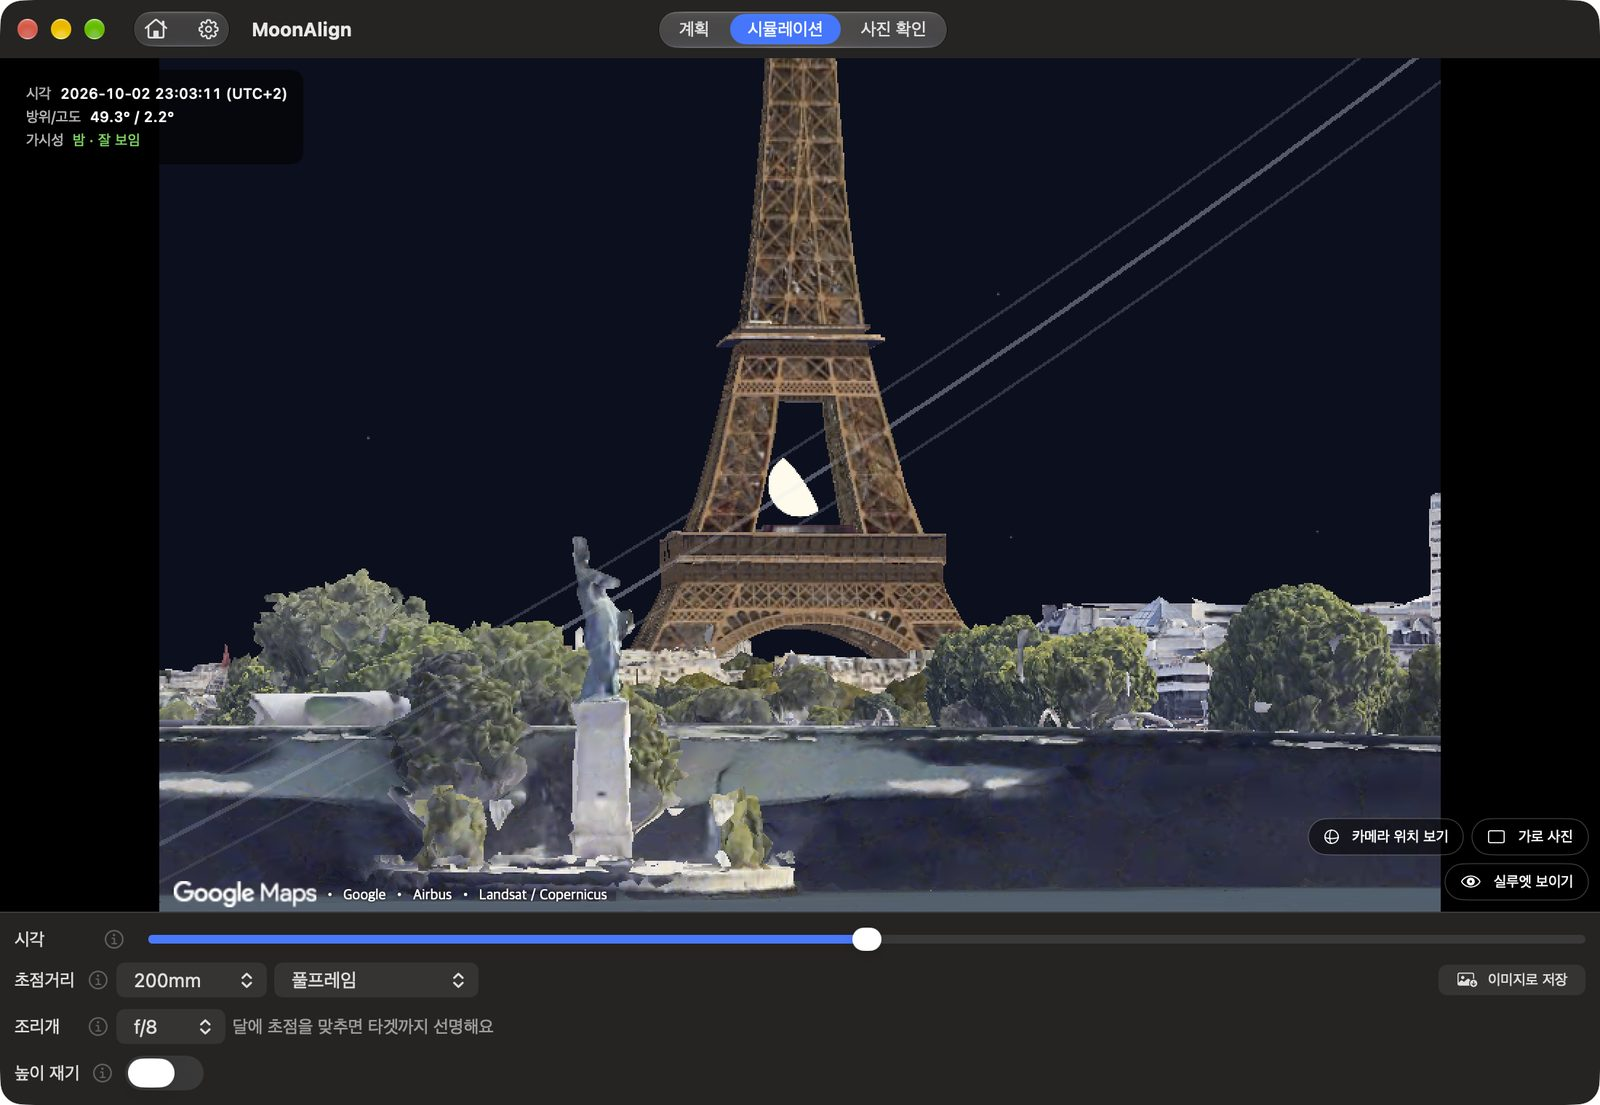
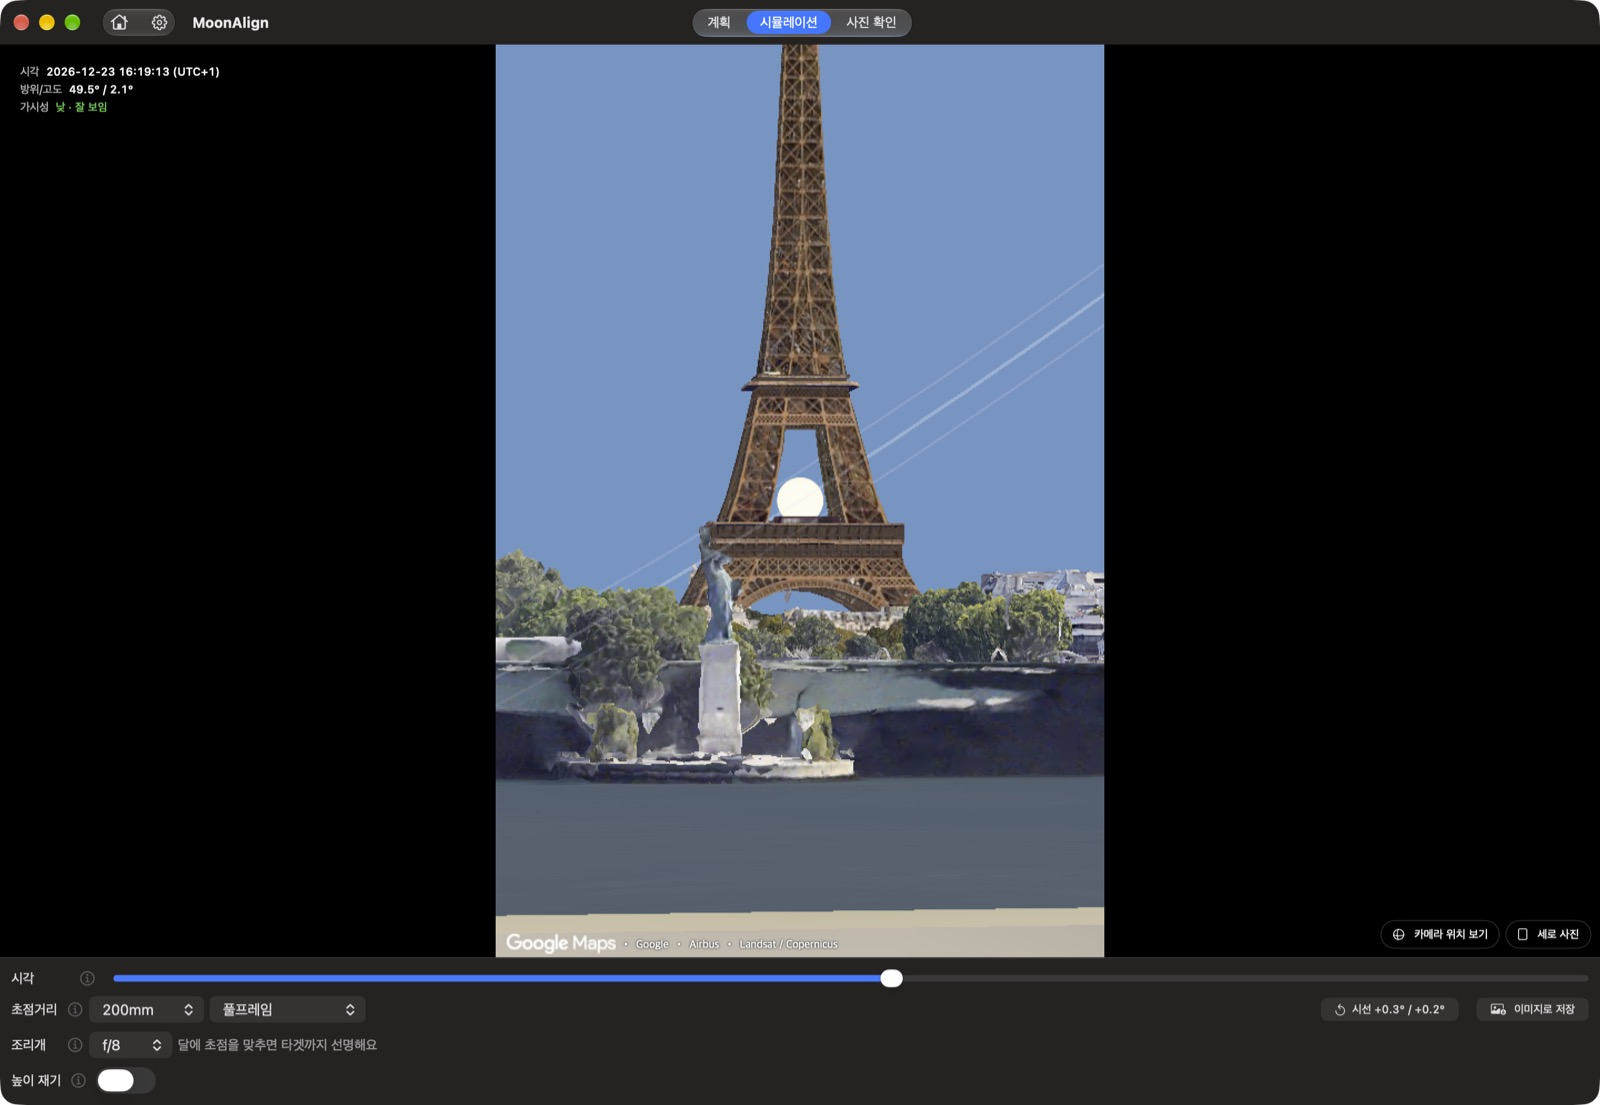
랜딩 생성물 갱신 — MoonAlign 20156f1

diff --git a/ja/guide/index.html b/ja/guide/index.html
@@ -289,7 +289,7 @@
 
 <section>
 <h2 id="sim">シミュレーション — 3Dで事前確認</h2>
-<figure class="shot"><img src="/img/guide/sim-mac-ja.jpg" alt="Macのシミュレーション" loading="lazy"><figcaption>Macのシミュレーション — エッフェル塔の脚の間に重なる月(200mm、フルサイズ)。下で時刻・焦点距離・絞りを変えます。</figcaption></figure>
+<figure class="shot"><img src="/img/guide/sim-mac-ja.jpg" alt="Macのシミュレーション" loading="lazy"><figcaption>Macのシミュレーション — エッフェル塔の第1展望台と第2展望台の間に重なる月(2026-12-23 16:19、200mm、フルサイズ、縦位置)。下で時刻・焦点距離・絞りを変えます。</figcaption></figure>
 <p>地形・建物・実際のレンズの画角でプランを事前に確認します。韓国ではV-World 3D(国土交通部)、韓国外ではGoogleフォトリアリスティック3Dを使います。</p>
 <ul>
 <li><span class="ui">時刻</span>スライダー:重なる時刻の前後を動かし、月がターゲットの後ろに入っていく様子を見ます。範囲は(i)にあります。</li>

diff --git a/ko/guide/index.html b/ko/guide/index.html
@@ -291,7 +291,7 @@
 
 <section>
 <h2 id="sim">시뮬레이션 — 3D로 미리 보기</h2>
-<figure class="shot"><img src="/img/guide/sim-mac-ko.jpg" alt="Mac 시뮬레이션" loading="lazy"><figcaption>Mac 시뮬레이션 — 에펠탑 다리 사이로 걸린 달(200mm, 풀프레임). 아래에서 시각·초점거리·조리개를 바꿉니다.</figcaption></figure>
+<figure class="shot"><img src="/img/guide/sim-mac-ko.jpg" alt="Mac 시뮬레이션" loading="lazy"><figcaption>Mac 시뮬레이션 — 에펠탑 첫 층과 둘째 층 사이로 걸린 달(2026-12-23 16:19, 200mm, 풀프레임, 세로 사진). 아래에서 시각·초점거리·조리개를 바꿉니다.</figcaption></figure>
 <p>지형과 건물, 렌즈 화각을 반영한 3D 화면에서 촬영 구도를 미리 확인합니다. 한국은 V-World 3D(국토교통부), 해외는 Google 실사 3D를 사용합니다.</p>
 <ul>
 <li><span class="ui">시각</span> 슬라이더: 정렬 시각 전후로 조절하며 달과 타겟이 겹치는 구도를 확인합니다. 조절할 수 있는 시간 범위는 정보 버튼 ⓘ에서 확인할 수 있습니다.</li>

diff --git a/guide/index.html b/guide/index.html
@@ -289,7 +289,7 @@
 
 <section>
 <h2 id="sim">Simulation — preview in 3D</h2>
-<figure class="shot"><img src="/img/guide/sim-mac-en.jpg" alt="Simulation on the Mac" loading="lazy"><figcaption>Simulation on the Mac — the Moon framed between the legs of the Eiffel Tower (200mm, full frame). Change the time, focal length, and aperture below.</figcaption></figure>
+<figure class="shot"><img src="/img/guide/sim-mac-en.jpg" alt="Simulation on the Mac" loading="lazy"><figcaption>Simulation on the Mac — the Moon framed between the first and second floors of the Eiffel Tower (2026-12-23 16:19, 200mm, full frame, portrait). Change the time, focal length, and aperture below.</figcaption></figure>
 <p>Preview the plan with real terrain, buildings, and your lens's field of view. In Korea it uses V-World 3D (Ministry of Land, Infrastructure and Transport); outside Korea it uses Google Photorealistic 3D.</p>
 <ul>
 <li><span class="ui">Time</span> slider: move around the alignment time and watch the Moon slide behind the target. The range is in the (i).</li>
